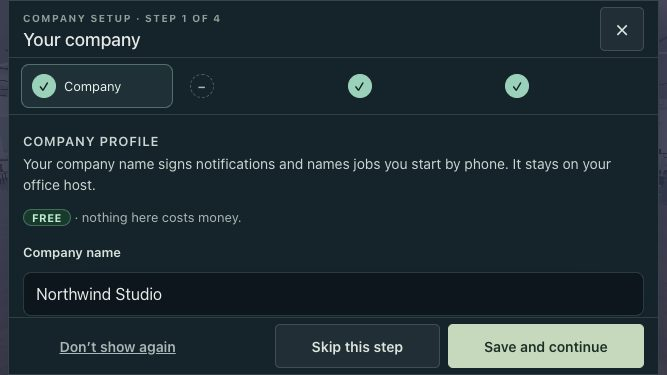
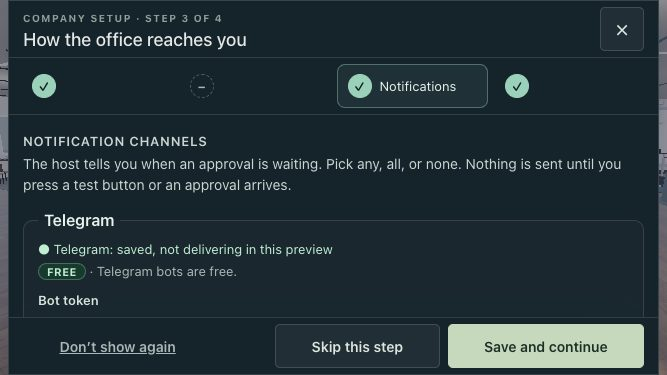
Onboarding: toasts stay clear of the dialog header and tabs; screenshots match their names
- While a dialog is open, toasts move to the bottom edge and only the two newest
  show; onboarding-ui-check asserts no toast overlaps the header or step rail at
  1440x900 and 667x375 (failed before: 2 of 3 toasts over the tabs).
- 08-notifications-667x375 really shows the notifications step: the check waits
  for the step change and asserts the title (it captured the Company step).
- Step-1 focus was already on the heading; the screenshot was taken after 25 Tab
  presses. It is now taken before them, with a check that no step tab has focus.
- Settings > Company setup reuses an onboarding dialog that is already open
  instead of stacking a second one.

diff --git a/tools/onboarding-ui-check.ts b/tools/onboarding-ui-check.ts
@@ -49,6 +49,17 @@ async function next(p: Page) {
   await modal(p).locator('footer button.primary').click();
   await p.waitForTimeout(500);
 }
+/** Visible toasts that overlap the onboarding dialog's header or step rail (DEVTEST-02: they used to stack over the tabs). */
+async function toastsOverHeader(p: Page) {
+  return p.evaluate(() => {
+    const m = document.querySelector('.onboarding-modal');
+    const zones = [m?.querySelector('header'), m?.querySelector('.ob-rail')].filter(Boolean).map((e) => (e as HTMLElement).getBoundingClientRect());
+    const toasts = [...document.querySelectorAll('#toasts .toast')].filter((t) => t.getClientRects().length && getComputedStyle(t).visibility !== 'hidden').map((t) => t.getBoundingClientRect());
+    const hit = toasts.filter((t) => zones.some((z) => t.left < z.right && t.right > z.left && t.top < z.bottom && t.bottom > z.top));
+    return { toasts: toasts.length, over: hit.length };
+  });
+}
+
 async function overflow(p: Page) {
   return p.evaluate(() => {
     const m = document.querySelector('.onboarding-modal') as HTMLElement | null;
@@ -82,11 +93,13 @@ async function main() {
     check('focus starts inside the dialog, on the step heading', await p.evaluate(() => document.activeElement?.classList.contains('ob-heading') ?? false));
     check('the rail marks the current step', (await modal(p).locator('.ob-step[aria-current=step]').count()) === 1);
     check('the free path is labelled', /Free · nothing here costs money/.test((await modal(p).locator('.ob-body').textContent()) ?? ''));
+    check('no step tab has focus on step 1 (the heading does)', await p.evaluate(() => !document.activeElement?.closest('.ob-rail')));
+    // The step-1 screenshot shows the initial focus, so it is taken before the Tab presses below move it along the rail.
+    await p.screenshot({ path: resolve(out, '01-company-1440x900.jpg'), quality: 82 });
     // Tab stays inside the dialog.
     let trapped = true;
     for (let i = 0; i < 25; i++) { await p.keyboard.press('Tab'); if (!(await p.evaluate(() => !!document.activeElement?.closest('.onboarding-modal')))) trapped = false; }
     check('Tab keeps focus inside the dialog (25 presses)', trapped);
-    await p.screenshot({ path: resolve(out, '01-company-1440x900.jpg'), quality: 82 });
     await modal(p).getByLabel('Company name').fill('Northwind Studio');
     await modal(p).getByLabel('What you do').fill('Booking software for clinics');
     await modal(p).getByLabel('Website (optional)').fill('javascript:alert(1)');
@@ -147,6 +160,8 @@ async function main() {
     check('no secret is shown back after saving', !html.includes(FAKE_TOKEN) && !html.includes(FAKE_PASS) && (await body.locator('input[type=password]').evaluateAll((els) => els.every((e) => (e as HTMLInputElement).value === ''))));
     check('saved secrets are shown only as present', (await body.locator('.ob-secret-state[data-present=true]').count()) === 2 && /Saved · type to replace/.test((await tg.getByLabel('Bot token').getAttribute('placeholder')) ?? ''));
     check('saved channels say they do not deliver in this preview', /saved, not delivering in this preview/.test((await tg.textContent()) ?? ''));
+    const t1 = await toastsOverHeader(p);
+    check('1440x900: "test sent" toasts never cover the dialog header or step tabs', t1.toasts > 0 && t1.over === 0, JSON.stringify(t1));
     await p.screenshot({ path: resolve(out, '04-notifications-saved-and-tested-1440x900.jpg'), quality: 82, fullPage: false });
     await body.evaluate((el) => { el.scrollTop = el.scrollHeight; });
     await p.screenshot({ path: resolve(out, '04b-notifications-email-1440x900.jpg'), quality: 82 });
@@ -196,15 +211,34 @@ async function main() {
 
     // ---- Phone landscape 667x375 (portrait shows the game's rotate hint by design; see mobile-ui-check) ----
     const s = await open(browser, base, { width: 667, height: 375, touch: true });
-    await s.page.evaluate(() => (document.getElementById('btn-settings') as HTMLButtonElement | null)?.click());
-    await s.page.waitForSelector('.onboarding-section button', { timeout: 10_000 });
-    await s.page.evaluate(() => (document.querySelector('.onboarding-section button') as HTMLButtonElement).click());
+    // Re-opening from Settings on the 874 run makes the unfinished setup resumable, so this page load may offer it by
+    // itself; Settings › Company setup then reuses that dialog instead of stacking a second one (DEVTEST-02).
+    // A player can't reach Settings over the dialog; when it was offered, use it as it is.
+    await s.page.waitForTimeout(4000);
+    if (!(await modal(s.page).count())) {
+      await s.page.evaluate(() => (document.getElementById('btn-settings') as HTMLButtonElement | null)?.click());
+      await s.page.waitForSelector('.onboarding-section button', { timeout: 10_000 });
+      await s.page.evaluate(() => (document.querySelector('.onboarding-section button') as HTMLButtonElement).click());
+    }
     await s.page.waitForSelector('.onboarding-modal .ob-heading', { timeout: 10_000 });
+    await s.page.waitForTimeout(800);
+    check('667x375: one onboarding dialog is open', (await modal(s.page).count()) === 1, String(await modal(s.page).count()));
+    await s.page.waitForFunction(() => document.querySelectorAll('.onboarding-modal .ob-step').length === 4, null, { timeout: 10_000 });
     await s.page.evaluate(() => (document.querySelectorAll('.onboarding-modal .ob-step')[2] as HTMLButtonElement).click());
+    await s.page.waitForFunction(() => document.querySelector('#ob-title')?.textContent === 'How the office reaches you', null, { timeout: 10_000 }).catch(() => {});
     await s.page.waitForTimeout(600);
+    check('667x375: the screenshot shows the notifications step', (await stepTitle(s.page)) === 'How the office reaches you', (await stepTitle(s.page)) ?? '');
     const o2 = await overflow(s.page);
     check('667x375: notifications step without horizontal overflow', o2.doc <= 0 && o2.modal <= 0 && o2.right <= 0, JSON.stringify(o2));
     await s.page.screenshot({ path: resolve(out, '08-notifications-667x375.jpg'), quality: 82 });
+    // Phone: send tests (the channels were saved on the desktop run) and check where the toasts land.
+    for (const i of [0, 1]) {
+      await s.page.locator('.onboarding-modal fieldset.ob-channel').nth(i).getByRole('button', { name: 'Save and send test' }).click();
+      await s.page.waitForTimeout(700);
+    }
+    const t2 = await toastsOverHeader(s.page);
+    check('667x375: "test sent" toasts never cover the dialog header or step tabs', t2.toasts > 0 && t2.over === 0, JSON.stringify(t2));
+    await s.page.screenshot({ path: resolve(out, '08b-notifications-toasts-667x375.jpg'), quality: 82 });
     check('667x375: no console errors', s.errors.length === 0, s.errors.join(' | '));
     await s.context.close();
 

diff --git a/src/client/style.css b/src/client/style.css
@@ -1056,6 +1056,10 @@ html.ae-touch .radar-stats, html.ae-touch .crosshair .look-hint { display: none 
 html.ae-touch .hint { bottom: calc(14px + env(safe-area-inset-bottom)); max-width: calc(100vw - 370px - env(safe-area-inset-left) - env(safe-area-inset-right)); gap: 6px 10px; padding: 7px 12px; font-size: 12px; }
 html.ae-touch .traversal-hint { top: calc(58px + env(safe-area-inset-top)); bottom: auto; left: 50%; right: auto; transform: translateX(-50%); max-width: calc(100vw - 300px); font-size: 11px; }
 html.ae-touch #toasts { top: calc(58px + env(safe-area-inset-top)); }
+/* While a dialog is open its header and tabs sit where toasts appear: toasts move to the bottom edge instead, newest
+   lowest, and only the two newest show (DEVTEST-02: "test sent" toasts stacked over the onboarding step tabs). */
+html:has(#modal-root > .backdrop) #toasts { top: auto; bottom: calc(12px + env(safe-area-inset-bottom)); z-index: 60; }
+html:has(#modal-root > .backdrop) #toasts > .toast:nth-last-child(n + 3) { display: none; }
 html.ae-touch #hud #conn { top: calc(58px + env(safe-area-inset-top)); bottom: auto; }
 html.ae-touch #hud #shares { top: calc(58px + env(safe-area-inset-top)); bottom: auto; left: calc(12px + env(safe-area-inset-left)); }
 html.ae-touch .share-thumb { width: 150px; }

diff --git a/src/client/ui/onboarding.ts b/src/client/ui/onboarding.ts
@@ -91,8 +91,12 @@ export interface OnboardingHooks {
   cloud?: boolean;
 }
 
+/** The onboarding dialog that is open now: a second request (Settings › Company setup, the first-run offer) reuses it. */
+let openDialog: Modal | null = null;
+
 export function openOnboarding(hooks: OnboardingHooks, initial?: OnboardingView): Modal {
   if (hooks.cloud) return cloudPanel();
+  if (openDialog?.backdrop.isConnected) return openDialog;
   let view = initial;
   let busy = false;
   let doneScreen = false;
@@ -113,7 +117,8 @@ export function openOnboarding(hooks: OnboardingHooks, initial?: OnboardingView)
   let collect: () => Promise<void> = async () => {};
   let dirty = false;
   el.addEventListener('input', () => { dirty = true; });
-  const modal = openModal(el, { dirty: () => dirty });
+  const modal = openModal(el, { dirty: () => dirty, onClose: () => { if (openDialog === modal) openDialog = null; } });
+  openDialog = modal;
   close.addEventListener('click', () => modal.close());
   later.addEventListener('click', () => modal.close());
 
